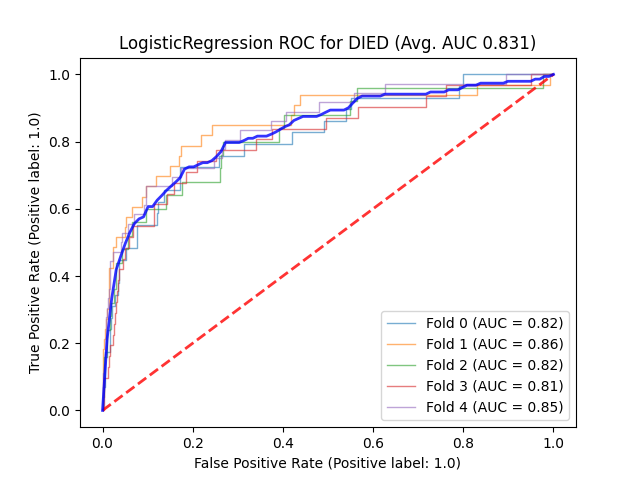
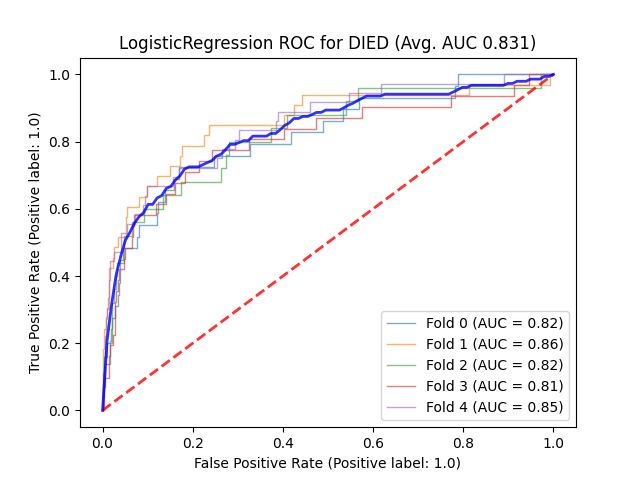
Predict anastomotic leak and hemorrhage

Changed region(s): [[0.1562, 0.1875, 0.5938, 0.7188], [0.6562, 0.1562, 0.875, 0.25], [0.1562, 0.75, 0.1875, 0.7812]]

diff --git a/preprocessing/__init__.py b/preprocessing/__init__.py
@@ -31,12 +31,24 @@ def do_preprocessing(df):
 
     NOTE normalization probably doesn't help DTC/RF but may boost LR performance
     """
-    # TODO: add Lap/open
+    icd9_proc_cols = [col for col in df.columns if re.search("^PR[0-9]{1,2}$", col)]
+    icd10_proc_cols = [col for col in df.columns if re.search("^I10_PR[0-9]{1,2}$", col)]
+    procedure_columns = icd9_proc_cols + icd10_proc_cols
+
+    icd9_dx_cols = [col for col in df.columns if re.search("^DX[0-9]{1,2}$", col)]
+    icd10_dx_cols = [col for col in df.columns if re.search("^I10_DX[0-9]{1,2}$", col)]
+    diagnosis_columns = icd9_dx_cols + icd10_dx_cols
+
     preprocessed_df = pd.DataFrame()
 
     # Labels
     preprocessed_df['DIED'] = df['DIED']
     preprocessed_df['LOS'] = (df['LOS'] > 10).astype(float)
+
+    anastomotic_leak_codes = ['K632', 'K651', 'K913', 'K9181', 'K9189', '56981', '56722', '99749']
+    hemorrhage_codes = ['K91840', '99811']
+    preprocessed_df['anastomotic_leak'] = df[diagnosis_columns].isin(anastomotic_leak_codes).any(axis='columns')
+    preprocessed_df['hemorrhage'] = df[diagnosis_columns].isin(hemorrhage_codes).any(axis='columns')
 
     # Normalize
     df = preprocessing.normalization.normalize(df)
@@ -46,11 +58,8 @@ def do_preprocessing(df):
         axis=1
     )
 
-    icd9_cols = [col for col in df.columns if re.search("^DX[0-9]{1,2}$", col)]
-    icd10_cols = [col for col in df.columns if re.search("^I10_DX[0-9]{1,2}$", col)]
-
     # Get whether or not procedure is lap
-    preprocessed_df['lap'] = df[icd9_cols + icd10_cols].isin(util.inclusionCriteria.get_all_lap()).any(axis='columns')
+    preprocessed_df['lap'] = df[procedure_columns].isin(util.inclusionCriteria.get_all_lap()).any(axis='columns')
     preprocessed_df['lap'] = preprocessed_df['lap'].astype(float)
 
     # One-hot encode FEMALE, PAY1, RACE, TRAN_IN

diff --git a/modelingMain.py b/modelingMain.py
@@ -11,7 +11,7 @@ if __name__ == '__main__':
 
     models = {
         'DT': tree.DecisionTreeClassifier(min_samples_leaf=100),
-        'RF': RandomForestClassifier(n_jobs=-1, n_estimators=500, min_samples_leaf=100),
+        'RF': RandomForestClassifier(n_jobs=-1, n_estimators=500),
         'LR': LogisticRegression(n_jobs=-1, max_iter=10000)
     }
 

diff --git a/modeling/__init__.py b/modeling/__init__.py
@@ -9,7 +9,7 @@ from sklearn.metrics import confusion_matrix, plot_roc_curve, auc
 def do_cv(clf, df, cv):
     print(f'Performing cross validation on {df.shape[0]} examples')
 
-    labels = ['DIED', 'LOS']
+    labels = ['DIED', 'LOS', 'anastomotic_leak', 'hemorrhage']
     features = [c for c in df.columns if c not in labels]
     ret = list()
 

diff --git a/filtering/__init__.py b/filtering/__init__.py
@@ -1,5 +1,4 @@
 import re
-import pandas as pd
 
 COLONIC_NEOPLASIA_CODES = [
     'D12.0', 'D12.2', 'D12.3', 'D12.4', 'D12.5', 'D12.6', 'K63.5', '211.3', '153.0', '153.1', '153.2', '153.3',

diff --git a/results/README.md b/results/README.md
@@ -5,14 +5,23 @@
 ### Predicting DIED
 
 | Decision Tree      | Random Forest | Logistic Regression     |
-| :---        |    :----:   |          ---: |
+| :---        |    :---  |          :--- |
 | ![ROC Curve](./DT_DIED.png)      | ![ROC Curve](./RF_DIED.png)       | ![ROC Curve](./LR_DIED.png)  |
 
 ### Predicting LOS
 
 | Decision Tree      | Random Forest | Logistic Regression     |
-| :---        |    :----:   |          ---: |
+| :---        |    :---   |          :--- |
 | ![ROC Curve](./DT_LOS.png)      | ![ROC Curve](./RF_LOS.png)       | ![ROC Curve](./LR_LOS.png)  |
 
+### Predicting anastomotic_leak
 
+| Decision Tree      | Random Forest | Logistic Regression     |
+| :---        |    :---   |          :--- |
+| ![ROC Curve](./DT_anastomotic_leak.png)      | ![ROC Curve](./RF_anastomotic_leak.png)       | ![ROC Curve](./LR_anastomotic_leak.png)  |
 
+### Predicting hemorrhage
+
+| Decision Tree      | Random Forest | Logistic Regression     |
+| :---        |    :---   |          :--- |
+| ![ROC Curve](./DT_hemorrhage.png)      | ![ROC Curve](./RF_hemorrhage.png)       | ![ROC Curve](./LR_hemorrhage.png)  |
